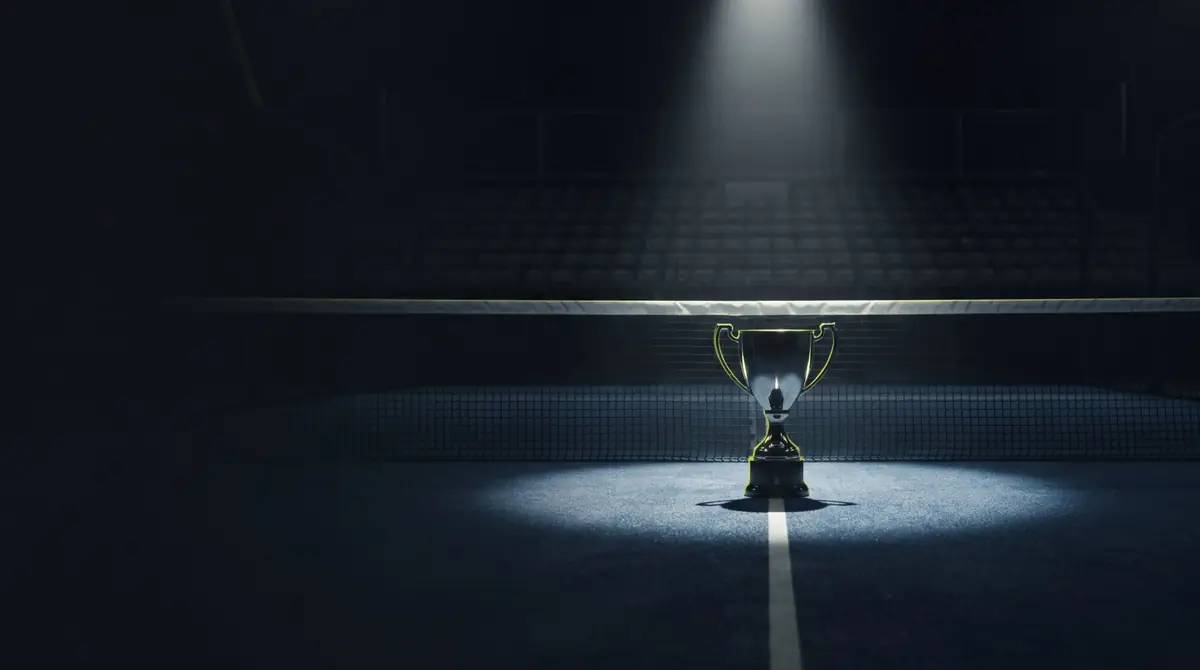
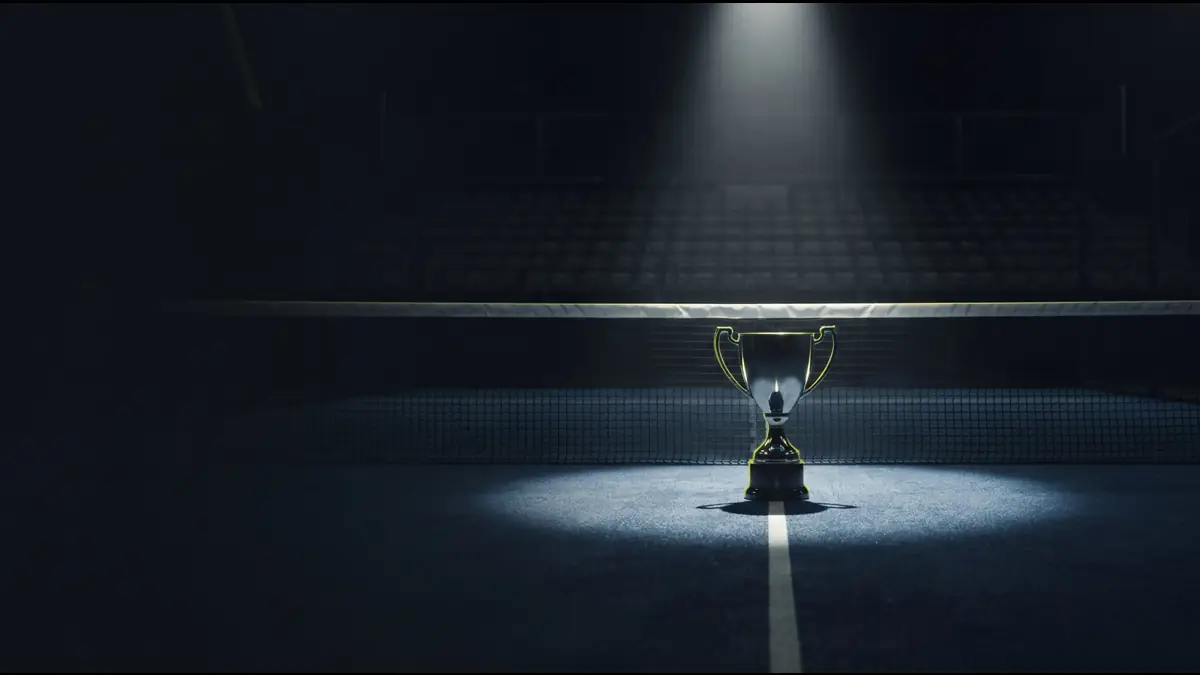
Alta de torneo: foto nueva de la copa, centrada
La copa queda sobre un pedestal en la mitad de arriba y la tarjeta la
encuadra al centro, así el texto ya no la tapa.

Claude-Session: https://claude.ai/code/session_01ETZ79tJo5EBXFA9EoPE8d2

diff --git a/src/components/Setup/Setup.jsx b/src/components/Setup/Setup.jsx
@@ -21,7 +21,7 @@ import StepBar from "../shared/StepBar";
 const FORMATOS = [
   { id: 'liga', titulo: 'LIGA', bajada: 'Tabla de posiciones acumulada, en un día o en una temporada por fechas.', datos: ['Libres o parejas fijas', `Desde ${LIGA_MIN_PLAYERS} jugadores`], icono: ListOrdered, img: '/formatos/liga', pos: '56% center' },
   { id: 'americano', titulo: 'AMERICANO', bajada: 'Fase previa de 2 partidos por pareja y cuadro de eliminación directa.', datos: [`${AMERICANO_MIN_PAIRS} a ${AMERICANO_MAX_PAIRS} parejas`, 'Un solo día'], icono: Shuffle, img: '/formatos/americano', pos: '74% center' },
-  { id: 'copa', titulo: 'COPA', bajada: 'Grupos y playoffs, o cuadro directo. Fixture con día, horario y cancha.', datos: [`Hasta ${COPA_MAX_PAIRS} parejas`, 'Premios por puesto'], icono: Trophy, img: '/formatos/copa', pos: '64% center' },
+  { id: 'copa', titulo: 'COPA', bajada: 'Grupos y playoffs, o cuadro directo. Fixture con día, horario y cancha.', datos: [`Hasta ${COPA_MAX_PAIRS} parejas`, 'Premios por puesto'], icono: Trophy, img: '/formatos/copa', pos: '50% center' },
 ];
 
 const INFO_SECCIONES = [
